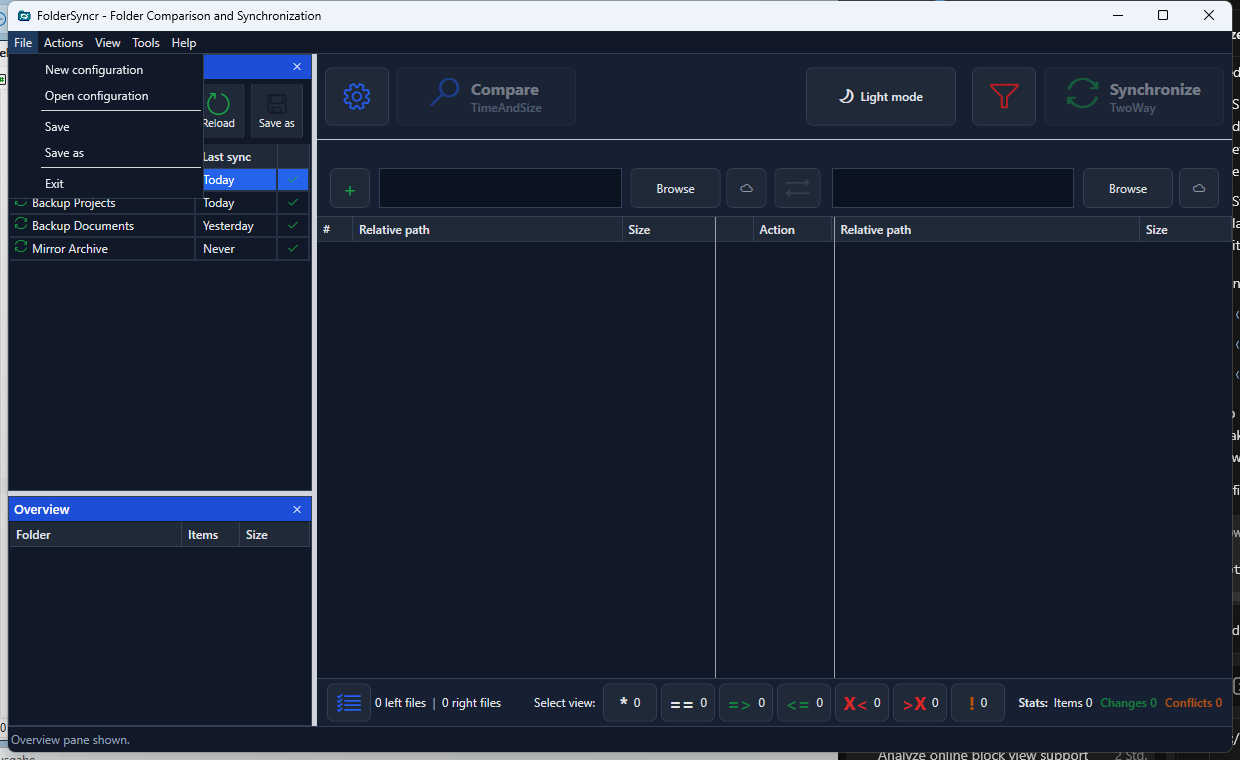
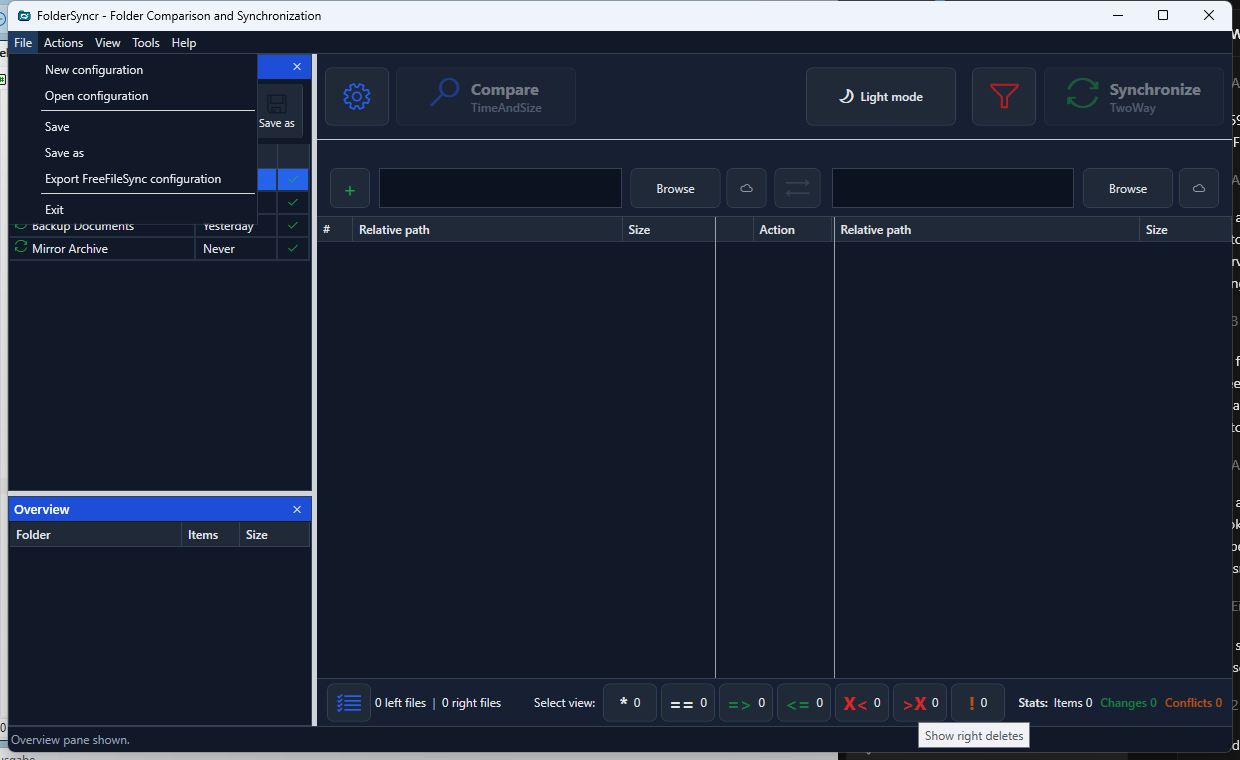
Export FreeFileSync configurations

diff --git a/docs/USER_GUIDE.html b/docs/USER_GUIDE.html
@@ -164,6 +164,7 @@
     <section>
       <h2>FolderSyncr Configurations</h2>
       <p>Use <code>File -> Save</code> or <code>Save as</code> to store the current folder pair, sync mode, compare method, filters, and theme as a <code>.foldersyncr.json</code> file.</p>
+      <p>Use <code>File -> Export FreeFileSync configuration</code> to write a compatible <code>.ffs_gui</code> file. The export includes the current folder pair, comparison method, synchronization mode/direction, and include/exclude filters. FolderSyncr-only settings such as theme, recycle-bin deletion, and versioning options stay in the native <code>.foldersyncr.json</code> format.</p>
       <p>Use <code>File -> Open configuration</code> to reopen it later, and <code>File -> Reload configuration</code> to discard local changes and load the current file again.</p>
     </section>
 

diff --git a/FolderSyncr/MainWindow.xaml b/FolderSyncr/MainWindow.xaml
@@ -482,6 +482,7 @@
                 <Separator />
                 <MenuItem Header="_Save" Command="{Binding SaveConfigurationCommand}" />
                 <MenuItem Header="Save _as" Command="{Binding SaveAsConfigurationCommand}" />
+                <MenuItem Header="_Export FreeFileSync configuration" Command="{Binding ExportFreeFileSyncConfigurationCommand}" />
                 <Separator />
                 <MenuItem Header="E_xit" Command="{Binding ExitCommand}" />
             </MenuItem>

diff --git a/FolderSyncr.Tests/FreeFileSyncConfigurationExporterTests.cs b/FolderSyncr.Tests/FreeFileSyncConfigurationExporterTests.cs
@@ -1,0 +1,86 @@
+using FolderSyncr.Models;
+using FolderSyncr.Services;
+
+namespace FolderSyncr.Tests;
+
+[TestClass]
+public sealed class FreeFileSyncConfigurationExporterTests
+{
+    [TestMethod]
+    public void CreateDocumentWritesSupportedFreeFileSyncSettings()
+    {
+        var configuration = CreateConfiguration(
+            SyncMode.MirrorRightToLeft,
+            CompareMethod.ContentHash,
+            includePatterns: "*.txt;*.md",
+            excludePatterns: "**/bin/**");
+
+        var document = new FreeFileSyncConfigurationExporter().CreateDocument(configuration);
+
+        Assert.AreEqual("FreeFileSync", document.Root?.Name.LocalName);
+        Assert.AreEqual("GUI", document.Root?.Attribute("XmlType")?.Value);
+        Assert.AreEqual("C:\\Left", document.Descendants("Left").Single().Value);
+        Assert.AreEqual("D:\\Right", document.Descendants("Right").Single().Value);
+        Assert.AreEqual("Content", document.Descendants("Comparison").Single().Element("Variant")?.Value);
+        Assert.AreEqual("Mirror", document.Descendants("Synchronization").Single().Element("Variant")?.Value);
+        Assert.AreEqual("RightToLeft", document.Descendants("Synchronization").Single().Element("Direction")?.Value);
+        CollectionAssert.AreEqual(
+            new[] { "*.txt", "*.md" },
+            document.Descendants("Include").Single().Elements("Item").Select(item => item.Value).ToArray());
+        Assert.AreEqual("**/bin/**", document.Descendants("Exclude").Single().Elements("Item").Single().Value);
+    }
+
+    [TestMethod]
+    public void SaveWritesConfigurationThatImporterCanRead()
+    {
+        var path = Path.Combine(Path.GetTempPath(), "FolderSyncrFfsExport_" + Guid.NewGuid().ToString("N"), "backup.ffs_gui");
+        try
+        {
+            new FreeFileSyncConfigurationExporter().Save(
+                path,
+                CreateConfiguration(SyncMode.UpdateLeftToRight, CompareMethod.SizeOnly, includePatterns: "*", excludePatterns: "*.tmp"));
+
+            var imported = new FreeFileSyncConfigurationImporter().Import(path);
+
+            Assert.HasCount(1, imported.FolderPairs);
+            Assert.AreEqual("C:\\Left", imported.FolderPairs[0].LeftPath);
+            Assert.AreEqual("D:\\Right", imported.FolderPairs[0].RightPath);
+            Assert.AreEqual(SyncMode.UpdateLeftToRight, imported.SyncMode);
+            Assert.AreEqual(CompareMethod.SizeOnly, imported.CompareMethod);
+            Assert.AreEqual("*", imported.IncludePatterns);
+            Assert.AreEqual("*.tmp", imported.ExcludePatterns);
+        }
+        finally
+        {
+            var directory = Path.GetDirectoryName(path);
+            if (!string.IsNullOrWhiteSpace(directory) && Directory.Exists(directory))
+            {
+                Directory.Delete(directory, recursive: true);
+            }
+        }
+    }
+
+    private static FolderSyncrConfiguration CreateConfiguration(
+        SyncMode syncMode,
+        CompareMethod compareMethod,
+        string includePatterns,
+        string excludePatterns)
+    {
+        return new FolderSyncrConfiguration(
+            Version: 6,
+            Name: "Export test",
+            LeftPath: "C:\\Left",
+            RightPath: "D:\\Right",
+            syncMode,
+            compareMethod,
+            FileTimeToleranceSeconds: 2,
+            IgnoreDaylightSavingTimeShift: false,
+            VerifyCopiedFiles: false,
+            DeletionHandling.Permanent,
+            VersioningMode.TimeStampFolder,
+            VersioningFolderPath: string.Empty,
+            includePatterns,
+            excludePatterns,
+            IsDarkMode: false);
+    }
+}

diff --git a/FolderSyncr/Services/FreeFileSyncConfigurationExporter.cs b/FolderSyncr/Services/FreeFileSyncConfigurationExporter.cs
@@ -1,0 +1,87 @@
+using System.IO;
+using System.Xml.Linq;
+using FolderSyncr.Models;
+
+namespace FolderSyncr.Services;
+
+public sealed class FreeFileSyncConfigurationExporter
+{
+    public void Save(string path, FolderSyncrConfiguration configuration)
+    {
+        if (string.IsNullOrWhiteSpace(path))
+        {
+            throw new ArgumentException("Choose a FreeFileSync configuration file.", nameof(path));
+        }
+
+        var directory = Path.GetDirectoryName(path);
+        if (!string.IsNullOrWhiteSpace(directory))
+        {
+            Directory.CreateDirectory(directory);
+        }
+
+        var document = CreateDocument(configuration);
+        document.Save(path);
+    }
+
+    public XDocument CreateDocument(FolderSyncrConfiguration configuration)
+    {
+        var synchronization = CreateSynchronization(configuration.SyncMode);
+        return new XDocument(
+            new XDeclaration("1.0", "UTF-8", null),
+            new XElement("FreeFileSync",
+                new XAttribute("XmlType", "GUI"),
+                new XElement("FolderPairs",
+                    new XElement("Pair",
+                        new XElement("Left", configuration.LeftPath),
+                        new XElement("Right", configuration.RightPath),
+                        new XElement("LocalFilter",
+                            CreateFilter("Include", configuration.IncludePatterns, defaultValue: "*"),
+                            CreateFilter("Exclude", configuration.ExcludePatterns, defaultValue: string.Empty)))),
+                new XElement("Comparison",
+                    new XElement("Variant", ToCompareVariant(configuration.CompareMethod))),
+                synchronization));
+    }
+
+    private static XElement CreateSynchronization(SyncMode mode)
+    {
+        var (variant, direction) = mode switch
+        {
+            SyncMode.MirrorRightToLeft => ("Mirror", "RightToLeft"),
+            SyncMode.MirrorLeftToRight => ("Mirror", "LeftToRight"),
+            SyncMode.UpdateRightToLeft => ("Update", "RightToLeft"),
+            SyncMode.UpdateLeftToRight => ("Update", "LeftToRight"),
+            _ => ("TwoWay", null)
+        };
+
+        var element = new XElement("Synchronization", new XElement("Variant", variant));
+        if (direction is not null)
+        {
+            element.Add(new XElement("Direction", direction));
+        }
+
+        return element;
+    }
+
+    private static string ToCompareVariant(CompareMethod compareMethod)
+    {
+        return compareMethod switch
+        {
+            CompareMethod.ContentHash => "Content",
+            CompareMethod.SizeOnly => "Size",
+            _ => "TimeAndSize"
+        };
+    }
+
+    private static XElement CreateFilter(string name, string patterns, string defaultValue)
+    {
+        var items = SplitPatterns(patterns).DefaultIfEmpty(defaultValue);
+        return new XElement(name, items
+            .Where(item => !string.IsNullOrWhiteSpace(item))
+            .Select(item => new XElement("Item", item)));
+    }
+
+    private static IEnumerable<string> SplitPatterns(string patterns)
+    {
+        return patterns.Split([';', ',', '|', '\r', '\n'], StringSplitOptions.TrimEntries | StringSplitOptions.RemoveEmptyEntries);
+    }
+}

diff --git a/FolderSyncr/ViewModels/MainViewModel.cs b/FolderSyncr/ViewModels/MainViewModel.cs
@@ -17,6 +17,7 @@ public sealed class MainViewModel : ObservableObject
 {
     private readonly SyncEngine _syncEngine = new();
     private readonly FreeFileSyncConfigurationImporter _configurationImporter = new();
+    private readonly FreeFileSyncConfigurationExporter _configurationExporter = new();
     private readonly FolderSyncrConfigurationStore _configurationStore = new();
     private readonly FreeFileSyncLogImporter _logImporter = new();
     private readonly SyncRunHistoryStore _runHistoryStore = new();
@@ -63,6 +64,7 @@ public sealed class MainViewModel : ObservableObject
         OpenConfigurationCommand = new RelayCommand(OpenConfigurationAsync);
         SaveConfigurationCommand = new RelayCommand(SaveConfigurationAsync);
         SaveAsConfigurationCommand = new RelayCommand(SaveAsConfigurationAsync);
+        ExportFreeFileSyncConfigurationCommand = new RelayCommand(ExportFreeFileSyncConfigurationAsync);
         ReloadConfigurationCommand = new RelayCommand(ReloadConfigurationAsync);
         OpenFreeFileSyncLogCommand = new RelayCommand(OpenFreeFileSyncLogAsync);
         CreateSampleDataCommand = new RelayCommand(CreateSampleDataAsync);
@@ -127,6 +129,7 @@ public sealed class MainViewModel : ObservableObject
     public RelayCommand OpenConfigurationCommand { get; }
     public RelayCommand SaveConfigurationCommand { get; }
     public RelayCommand SaveAsConfigurationCommand { get; }
+    public RelayCommand ExportFreeFileSyncConfigurationCommand { get; }
     public RelayCommand ReloadConfigurationCommand { get; }
     public RelayCommand OpenFreeFileSyncLogCommand { get; }
     public RelayCommand CreateSampleDataCommand { get; }
@@ -730,6 +733,28 @@ public sealed class MainViewModel : ObservableObject
         }
 
         return LoadNativeConfigurationAsync(_currentConfigurationPath);
+    }
+
+    private Task ExportFreeFileSyncConfigurationAsync()
+    {
+        var dialog = new Microsoft.Win32.SaveFileDialog
+        {
+            Title = "Export FreeFileSync configuration",
+            Filter = "FreeFileSync GUI configurations (*.ffs_gui)|*.ffs_gui|XML files (*.xml)|*.xml|All files (*.*)|*.*",
+            DefaultExt = ".ffs_gui",
+            AddExtension = true,
+            FileName = string.IsNullOrWhiteSpace(_currentConfigurationPath)
+                ? "Backup.ffs_gui"
+                : $"{Path.GetFileNameWithoutExtension(_currentConfigurationPath)}.ffs_gui"
+        };
+
+        if (dialog.ShowDialog() != true)
+        {
+            return Task.CompletedTask;
+        }
+
+        _configurationExporter.Save(dialog.FileName, CreateNativeConfiguration(dialog.FileName));
+        return SetStatusAsync($"Exported FreeFileSync configuration {Path.GetFileName(dialog.FileName)}.");
     }
 
     private Task LoadNativeConfigurationAsync(string path)
@@ -1491,6 +1516,7 @@ public sealed class MainViewModel : ObservableObject
         OpenConfigurationCommand.RaiseCanExecuteChanged();
         SaveConfigurationCommand.RaiseCanExecuteChanged();
         SaveAsConfigurationCommand.RaiseCanExecuteChanged();
+        ExportFreeFileSyncConfigurationCommand.RaiseCanExecuteChanged();
         ReloadConfigurationCommand.RaiseCanExecuteChanged();
     }
 

diff --git a/docs/USER_GUIDE.md b/docs/USER_GUIDE.md
@@ -50,6 +50,8 @@ Each synchronization writes a JSON run result to `%LOCALAPPDATA%\FolderSyncr\His
 
 Use `File` -> `Save` or `Save as` to store the current folder pair, sync mode, compare method, filters, and theme as a `.foldersyncr.json` file. Use `File` -> `Open configuration` to reopen it later, and `File` -> `Reload configuration` to discard local changes and load the current file again.
 
+Use `File` -> `Export FreeFileSync configuration` to write a compatible `.ffs_gui` file. The export includes the current folder pair, comparison method, synchronization mode/direction, and include/exclude filters. FolderSyncr-only settings such as theme, recycle-bin deletion, and versioning options stay in the native `.foldersyncr.json` format.
+
 ## Command Line
 
 Pass a `.foldersyncr.json`, `.ffs_gui`, or `.ffs_batch` file as the first argument to `FolderSyncr.exe` to open it in the UI at startup. Add `-dirpair <left> <right>` to override the loaded folder pair.

diff --git a/TODO.md b/TODO.md
@@ -10,7 +10,7 @@ This list tracks the work needed to support the main features documented in the 
 - [x] Import `.ffs_gui` and `.ffs_batch` XML files.
 - [ ] Preserve multiple folder pairs from imported configurations instead of only the first pair.
 - [x] Export FolderSyncr configurations to a native format.
-- [ ] Optionally export compatible FreeFileSync configuration files where the format is understood.
+- [x] Optionally export compatible FreeFileSync configuration files where the format is understood.
 - [x] Support command-line startup with a configuration file.
 - [x] Support `-dirpair <left> <right>` style path overrides.
 - [ ] Support merging multiple configuration files into one in-memory session.

diff --git a/README.md b/README.md
@@ -31,6 +31,7 @@ See the [tool documentation](docs/USER_GUIDE.md) for screenshots and usage detai
 - Optional one-hour daylight-saving-time shift ignore for time/size comparisons.
 - Include and exclude wildcard filters.
 - Import FreeFileSync `.ffs_gui`, `.ffs_batch`, and `.ffs_real` configurations.
+- Export supported settings to FreeFileSync-compatible `.ffs_gui` files.
 - Import FreeFileSync JSON results and log files.
 - Store local sync run history as FreeFileSync-like JSON.
 - Run saved configurations unattended with `FolderSyncr.Cli`, FreeFileSync-like exit codes, and JSON output.
